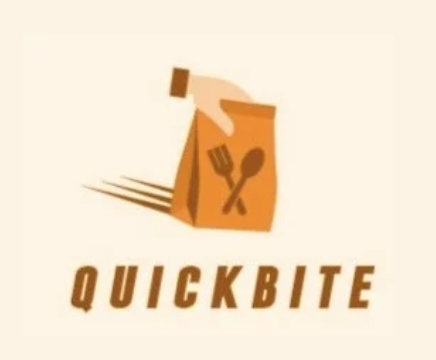
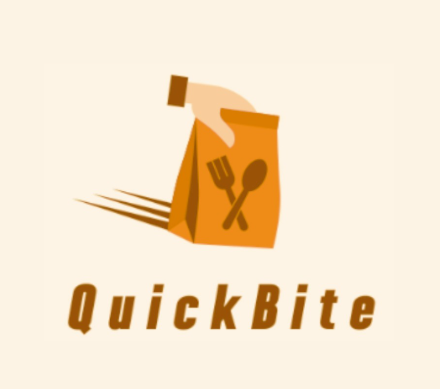
chore: remove GitHub Pages deployment config
Remove deployment workflow, base path, and update README banner.

Changed region(s): [[0.1789, 0.1833, 0.656, 0.6722], [0.1491, 0.7028, 0.8647, 0.8861], [0.4771, 0.2139, 0.5665, 0.2444]]

diff --git a/vite.config.ts b/vite.config.ts
@@ -6,7 +6,6 @@ import {defineConfig, loadEnv} from 'vite';
 export default defineConfig(({mode}) => {
   const env = loadEnv(mode, '.', '');
   return {
-    base: '/QuickBite-MVP/',
     plugins: [react(), tailwindcss()],
     define: {
       'process.env.GEMINI_API_KEY': JSON.stringify(env.GEMINI_API_KEY),

diff --git a/README.md b/README.md
@@ -1,5 +1,5 @@
 <div align="center">
-<img width="1200" height="475" alt="GHBanner" src="https://github.com/user-attachments/assets/0aa67016-6eaf-458a-adb2-6e31a0763ed6" />
+<img width="1200" height="475" alt="GHBanner" src="https://ai.google.dev/static/site-assets/images/share-ais-513315318.png" />
 </div>
 
 # Run and deploy your AI Studio app